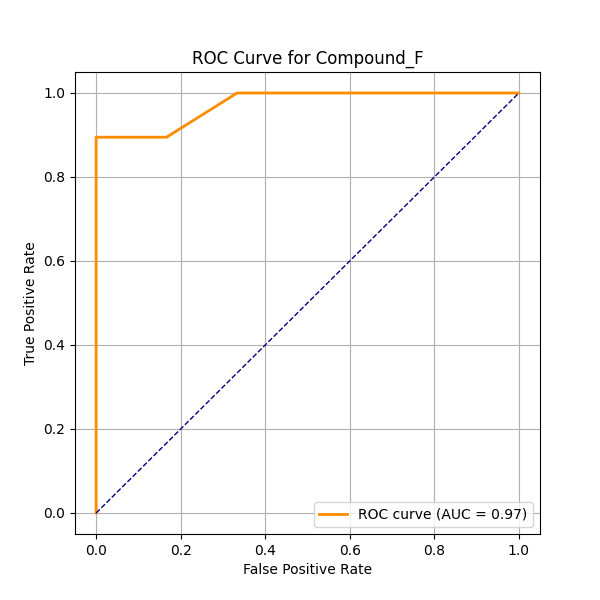
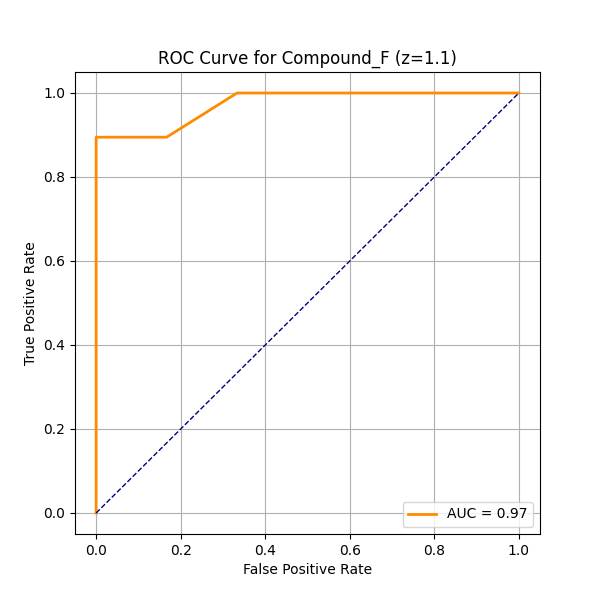
data reorganization

Changed region(s): [[0.27, 0.06, 0.75, 0.12], [0.51, 0.84, 0.9, 0.87]]

diff --git a/Roc_Curve.py b/Roc_Curve.py
@@ -22,7 +22,7 @@ def load_and_clean_data(filepath):
     Compound_F = Compound_F.dropna().iloc[1:].reset_index(drop=True)
     return Compound_G, Compound_F
 
-def extract_cv_lod(filepath):
+def extract_cv(filepath):
     sheet = pd.read_excel(filepath, sheet_name="Sheet1", header=None)
     return {
         "Compound_G": {"Cv90": sheet.iloc[1, 2]},
@@ -32,23 +32,27 @@ def extract_cv_lod(filepath):
 def classify_samples_whole(df, cv90, z):
     threshold = cv90 * z
     results = df[["Sample ID", "Concentration\n(ng)", "Intensity\n(cps)"]].copy()
+    results.insert(1, "Concentration (ng)", results.pop("Concentration\n(ng)"))  # Reorder
     results["Above Threshold"] = df["Intensity\n(cps)"] > threshold
-    results["True Label"] = (df["Concentration\n(ng)"] != 0).astype(int)
-    return results
+    results["True Label"] = (results["Concentration (ng)"] != 0).astype(int)
+    return results, threshold
 
-def generate_auc_plot_image(results_df, compound_name, output_dir="output"):
+def generate_auc_plot_image(results_df, compound_name, z, threshold, output_dir="output"):
     y_true = results_df["True Label"]
     y_scores = results_df["Intensity\n(cps)"]
 
-    fpr, tpr, _ = roc_curve(y_true, y_scores)
+    fpr, tpr, thresholds = roc_curve(y_true, y_scores)
     roc_auc = auc(fpr, tpr)
 
+    min_thresh = np.min(thresholds)
+    max_thresh = np.max(thresholds)
+
     plt.figure(figsize=(6, 6))
-    plt.plot(fpr, tpr, color='darkorange', lw=2, label=f'ROC curve (AUC = {roc_auc:.2f})')
+    plt.plot(fpr, tpr, color='darkorange', lw=2, label=f'AUC = {roc_auc:.2f}')
     plt.plot([0, 1], [0, 1], color='navy', linestyle='--', lw=1)
     plt.xlabel('False Positive Rate')
     plt.ylabel('True Positive Rate')
-    plt.title(f'ROC Curve for {compound_name}')
+    plt.title(f'ROC Curve for {compound_name} (z={z})')
     plt.legend(loc='lower right')
     plt.grid(True)
 
@@ -56,37 +60,50 @@ def generate_auc_plot_image(results_df, compound_name, output_dir="output"):
     image_path = os.path.join(output_dir, f"{compound_name}_roc_curve.png")
     plt.savefig(image_path)
     plt.close()
-    return image_path
+
+    return image_path, roc_auc, min_thresh, max_thresh
 
 def main():
     os.makedirs(OUTPUT_FOLDER, exist_ok=True)
-
-    # Uncomment below for real user input
-    # try:
-    #     z = float(input("Enter the z value to use for threshold calculation (e.g. 1.1): "))
-    # except ValueError:
-    #     print("❌ Invalid input for z. Please enter a numeric value.")
-    #     return
-
-    z = 1.1  # fallback for environments without input()
+    z = 1.1  # fixed for test
 
     for filename in os.listdir(INPUT_FOLDER):
         if filename.endswith('.xlsx') and not filename.startswith('~$'):
             input_path = os.path.join(INPUT_FOLDER, filename)
+            output_file = os.path.splitext(filename)[0] + "_results.xlsx"
+            output_path = os.path.join(OUTPUT_FOLDER, output_file)
 
             print(f"🔄 Processing {filename}...")
 
             try:
                 Compound_G, Compound_F = load_and_clean_data(input_path)
-                results = extract_cv_lod(input_path)
+                cv_values = extract_cv(input_path)
 
-                results_g = classify_samples_whole(Compound_G, results["Compound_G"]["Cv90"], z)
-                results_f = classify_samples_whole(Compound_F, results["Compound_F"]["Cv90"], z)
+                results_g, threshold_g = classify_samples_whole(Compound_G, cv_values["Compound_G"]["Cv90"], z)
+                results_f, threshold_f = classify_samples_whole(Compound_F, cv_values["Compound_F"]["Cv90"], z)
 
-                generate_auc_plot_image(results_g, "Compound_G", OUTPUT_FOLDER)
-                generate_auc_plot_image(results_f, "Compound_F", OUTPUT_FOLDER)
+                image_g, auc_g, min_thresh_g, max_thresh_g = generate_auc_plot_image(
+                    results_g, "Compound_G", z, threshold_g, OUTPUT_FOLDER
+                )
+                image_f, auc_f, min_thresh_f, max_thresh_f = generate_auc_plot_image(
+                    results_f, "Compound_F", z, threshold_f, OUTPUT_FOLDER
+                )
 
-                print(f"✅ Saved plots for: {filename}")
+                with pd.ExcelWriter(output_path, engine='xlsxwriter') as writer:
+                    results_g.to_excel(writer, sheet_name="Compound G", index=False)
+                    results_f.to_excel(writer, sheet_name="Compound F", index=False)
+
+                    summary = pd.DataFrame({
+                        "Compound": ["Compound G", "Compound F"],
+                        "Z Value": [z, z],
+                        "Threshold": [threshold_g, threshold_f],
+                        "AUC": [auc_g, auc_f],
+                        "Min ROC Threshold": [min_thresh_g, min_thresh_f],
+                        "Max ROC Threshold": [max_thresh_g, max_thresh_f]
+                    })
+                    summary.to_excel(writer, sheet_name="Summary", index=False)
+
+                print(f"✅ Saved to: {output_path}")
 
             except Exception as e:
                 print(f"❌ Error processing {filename}: {e}")
